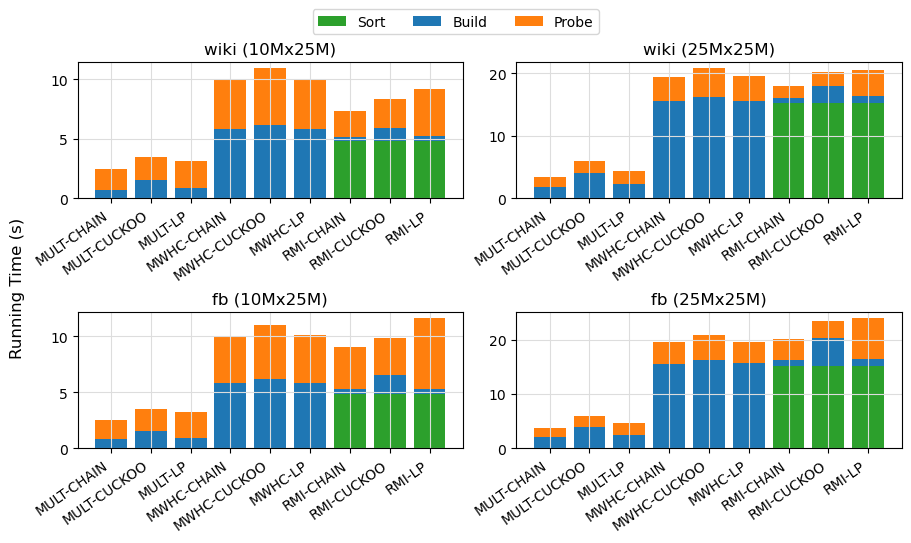
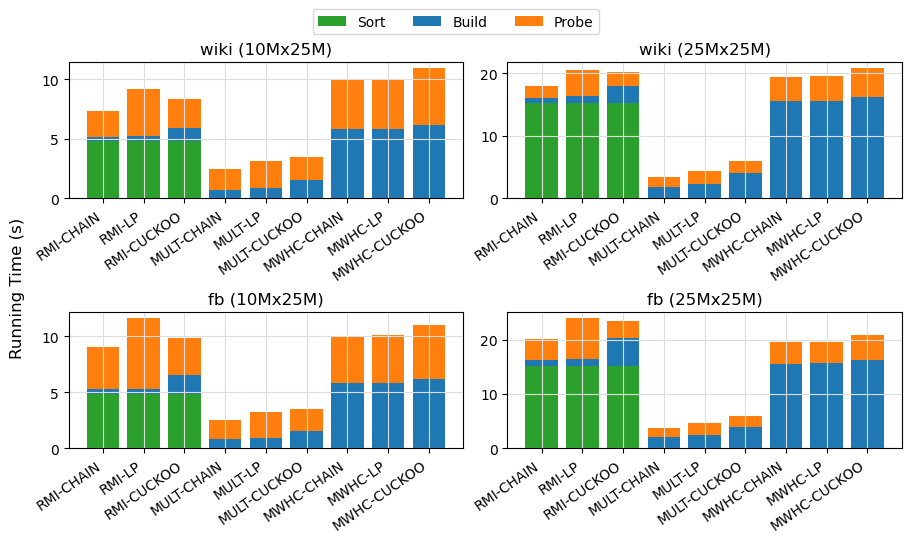
Patch join figures

diff --git a/scripts/print_figures.py b/scripts/print_figures.py
@@ -83,6 +83,9 @@ LAB_MAP = {
     'RMI-LINEAR': 1,
     'MULT-LINEAR': 4,
     'MWHC-LINEAR': 7,
+    'RMI-LP': 1,
+    'MULT-LP': 4,
+    'MWHC-LP': 7,
     'RMI-CUCKOO': 2,
     'MULT-CUCKOO': 5,
     'MWHC-CUCKOO': 8
@@ -862,7 +865,12 @@ def join(df):
     df['table_type'] = df['label'].apply(lambda x : get_table_type(x))
     df['table_label'] = df.apply(lambda x : get_table_label(x['function'],x['table_type']).upper(), axis=1)
     df = groupby_helper(df, ['dataset_name','table_label','function','join_size'], ['tot_time_sort_s', 'tot_time_build_s', 'tot_time_join_s'])
-    df = df.sort_values(by='table_label')
+
+    def get_map(x):
+        if isinstance(x, pd.Series):
+            return x.apply(lambda i : LAB_MAP[i])
+        return LAB_MAP[x]
+    df = df.sort_values(by='table_label', key=lambda l: get_map(l))
 
     # Create a single figure with multiple subplots in a row
     num_subplots = len(datasets)
